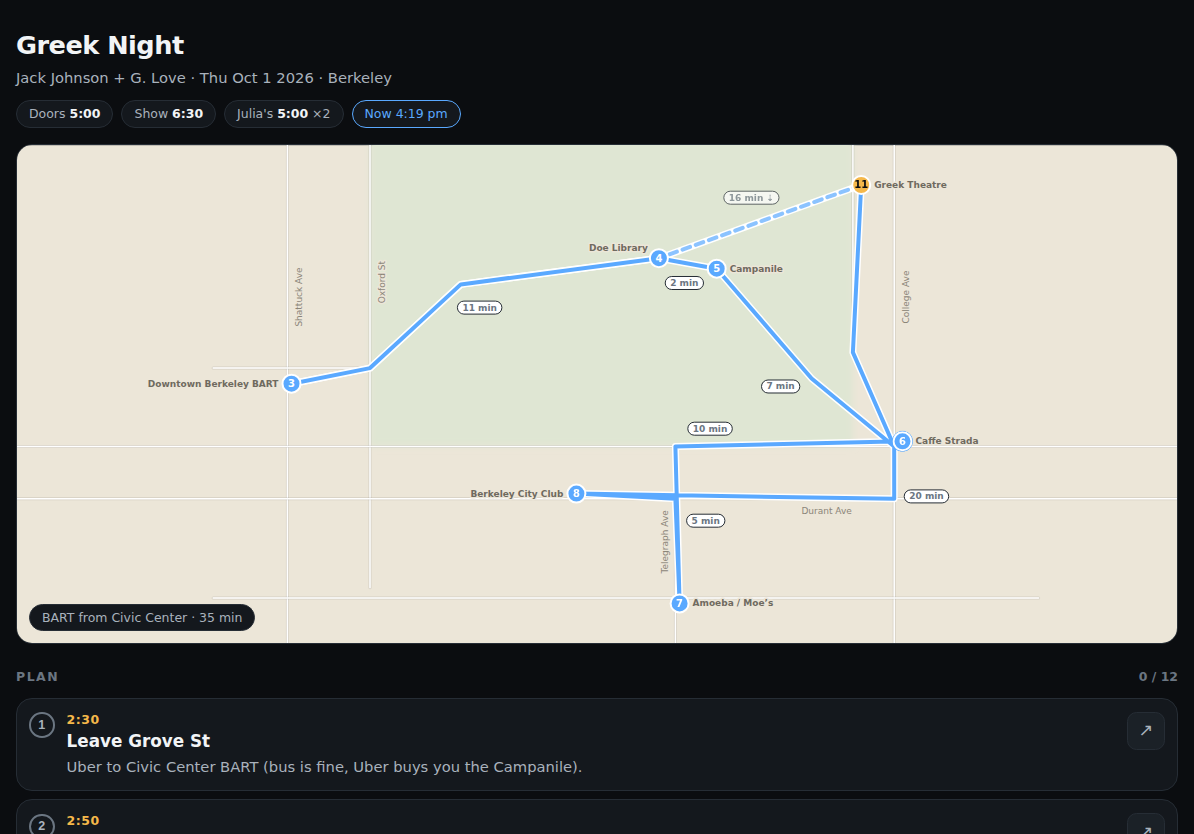
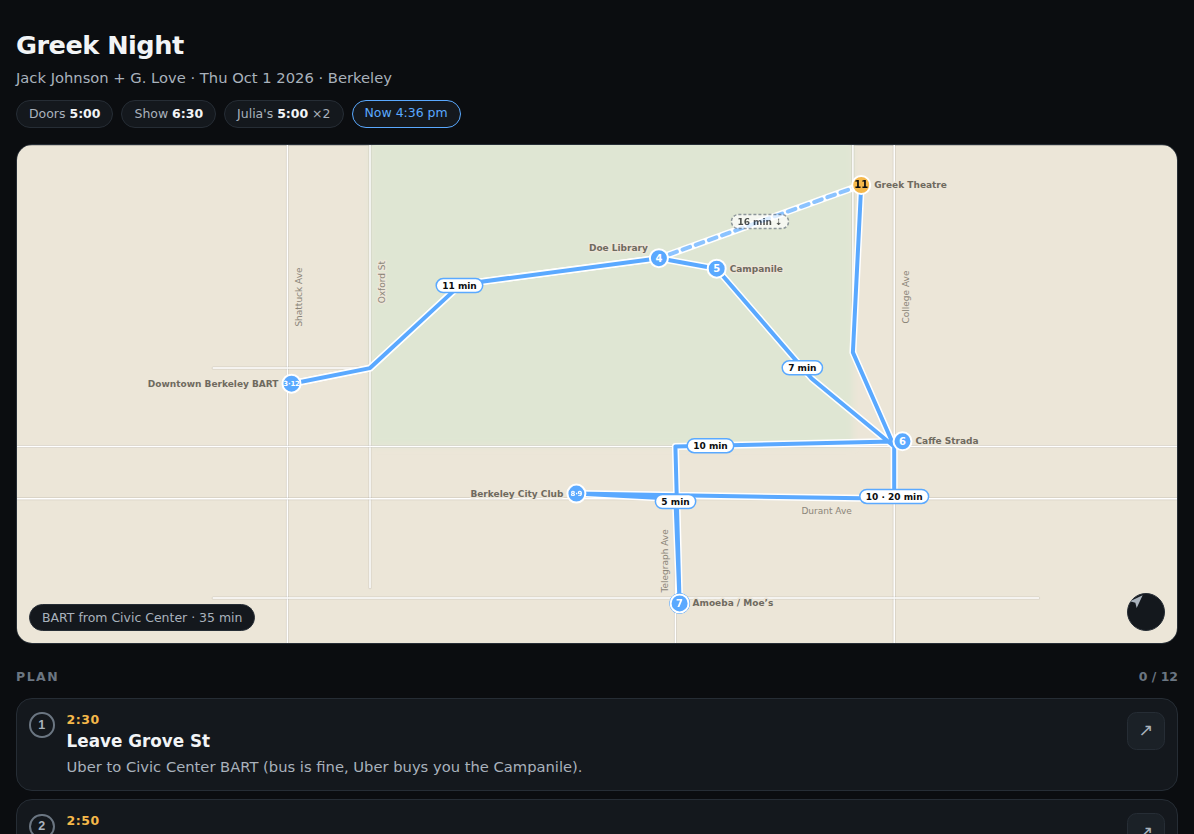
greek-night: pills on the line, shared pins
Walk-time pills sit centred on their leg at its midpoint by path length,
like route bubbles, drawn above both routes; one that lands near a pin
slides along the leg away from it, and legs under 3 min get none. The
City Club → Greek pill carries its step (10 · 20 min). Pin names and
street names avoid the pills. BART and City Club host two steps each
(3·12, 8·9): the popup lists both, tapping outlines both rows, and a pin
stays while any of its steps is live, so skipping step 8 leaves City
Club reading 9.

Claude-Session: https://claude.ai/code/session_01SYEqCQ4izqiJdBAjLeUwFf

diff --git a/greek-night.html b/greek-night.html
@@ -69,15 +69,17 @@
   .gn-route{fill:none;stroke:var(--now);stroke-width:4;stroke-linejoin:round;stroke-linecap:round}
   .gn-route.ret{stroke-dasharray:8 6;opacity:.7}
   .pin-l{font-size:9px;fill:#6f6a5f;stroke:#ece6d8;stroke-width:3;paint-order:stroke;stroke-linejoin:round;font-weight:600}
-  .walk-b{fill:#fff;stroke:var(--line);stroke-width:1}
-  .walk-t{font-size:9px;font-weight:700;fill:var(--ink3)}
+  .walk-b{fill:#fff;stroke:var(--now);stroke-width:1.5}
+  .walk-t{font-size:9px;font-weight:700;fill:#0b0d10}
   .walk.ret{opacity:.7}
+  .walk.ret .walk-b{stroke:var(--ink3);stroke-dasharray:3 2}
   .pin{cursor:pointer;transition:opacity .2s}
   .pin.done{opacity:.45}
   .pin-c{fill:var(--now);stroke:#fff;stroke-width:2}
   .pin.greek .pin-c{fill:var(--accent)}
   .pin-n{fill:#fff;font-size:10px;font-weight:700;pointer-events:none}
   .pin.greek .pin-n{fill:#0b0d10}
+  .pin-n.two{font-size:7px;letter-spacing:-.03em}
   .pin-hit{fill:transparent}
   .pulse{display:none;fill:none;stroke:var(--now);stroke-width:2;transform-box:fill-box;transform-origin:center}
   .pin.now .pulse{display:block;animation:gnPulse 2s ease-out infinite}
@@ -256,13 +258,13 @@
 
   /* ---------- map hero: offline SVG, projected from the data ---------- */
   var PLACES = [
-    {n:'Downtown Berkeley BART', lat:37.8699, lng:-122.2681, step:3},
-    {n:'Doe Library', lat:37.8723, lng:-122.2592, step:4},
-    {n:'Campanile', lat:37.8721, lng:-122.2578, step:5},
-    {n:'Caffe Strada', lat:37.8688, lng:-122.2533, step:6},
-    {n:'Amoeba / Moe’s', lat:37.8657, lng:-122.2587, step:7},
-    {n:'Berkeley City Club', lat:37.8678, lng:-122.2612, step:8},
-    {n:'Greek Theatre', lat:37.8737, lng:-122.2543, step:11, greek:true}
+    {n:'Downtown Berkeley BART', lat:37.8699, lng:-122.2681, steps:[3, 12]},
+    {n:'Doe Library', lat:37.8723, lng:-122.2592, steps:[4]},
+    {n:'Campanile', lat:37.8721, lng:-122.2578, steps:[5]},
+    {n:'Caffe Strada', lat:37.8688, lng:-122.2533, steps:[6]},
+    {n:'Amoeba / Moe’s', lat:37.8657, lng:-122.2587, steps:[7]},
+    {n:'Berkeley City Club', lat:37.8678, lng:-122.2612, steps:[8, 9]},
+    {n:'Greek Theatre', lat:37.8737, lng:-122.2543, steps:[11], greek:true}
   ];
   /* walk out, as legs between pins: the waypoints between the two; the Bancroft & College retrace is the same sidewalk */
   var LEG_WP = {
@@ -281,7 +283,9 @@
     7: [[37.8687, -122.2588], [37.8687, -122.2612]],
     8: [[37.8677, -122.2588], [37.8677, -122.2535], [37.8687, -122.2535], [37.8705, -122.2545]]
   };
-  function livePlaces(){ return PLACES.filter(function(s){ return !isSkipped(s.step); }); }
+  /* a pin stays while any of its steps is live: skip 8 and City Club remains for dinner, reading 9 */
+  function liveSteps(s){ return s.steps.filter(function(k){ return !isSkipped(k); }); }
+  function livePlaces(){ return PLACES.filter(function(s){ return liveSteps(s).length > 0; }); }
   var BACK = [[37.8737, -122.2543], [37.8723, -122.2592], [37.8718, -122.2640], [37.8702, -122.2662], [37.8699, -122.2681]];
   /* [name, N–S?, fixed coord, from, to (null = full fitted width), labelled] */
   var STREETS = [
@@ -306,14 +310,14 @@
     var live = livePlaces(), legs = [];
     for (var i = 1; i < live.length; i++) {
       var a = live[i - 1], b = live[i], pts = [[a.lat, a.lng]];
-      var gap = PLACES.filter(function(s){ return s.step > a.step && s.step < b.step; });   /* the skipped pins between them, in order */
-      if (gap.length) gap.forEach(function(s){ pts = pts.concat(BYPASS[s.step]); });
-      else pts = pts.concat(LEG_WP[a.step + '-' + b.step] || []);
+      var gap = PLACES.filter(function(s){ return s.steps[0] > a.steps[0] && s.steps[0] < b.steps[0]; });   /* the skipped pins between them, in order */
+      if (gap.length) gap.forEach(function(s){ pts = pts.concat(BYPASS[s.steps[0]]); });
+      else pts = pts.concat(LEG_WP[a.steps[0] + '-' + b.steps[0]] || []);
       pts.push([b.lat, b.lng]);
-      legs.push({pts:pts, mph:b.greek ? 2.5 : 3});
+      legs.push({pts:pts, mph:b.greek ? 2.5 : 3, label:b.greek ? '10 · ' : ''});   /* the climb to the Greek is step 10 */
     }
-    /* the return's pill sits on its visible dashed stretch (Greek → Doe), on the side away from the Campanile (when it is live) */
-    legs.push({pts:BACK, mph:3, ret:true, place:BACK.slice(0, 2), away:live.filter(function(pl){ return pl.step === 5; })[0]});
+    /* the return's pill sits on its visible dashed stretch (Greek → Doe) */
+    legs.push({pts:BACK, mph:3, ret:true, place:BACK.slice(0, 2)});
     legs.forEach(function(l){
       var m = 0;
       for (var j = 1; j < l.pts.length; j++) m += metres(l.pts[j - 1], l.pts[j]);
@@ -333,9 +337,9 @@
   var svg = document.getElementById('gnmap');
   var popEl = document.getElementById('pinpop');
   var chipEl = cardEl.querySelector('.mapchip');
-  var pinEls = [], linkedRow = null;
+  var pinEls = [], linkedRows = [];
   /* plan rows with a pin take the pin's colour for their step number */
-  PLACES.forEach(function(s){ planEl.children[s.step - 1].querySelector('.check').classList.add(s.greek ? 'key-acc' : 'key-now'); });
+  PLACES.forEach(function(s){ s.steps.forEach(function(k){ planEl.children[k - 1].querySelector('.check').classList.add(s.greek ? 'key-acc' : 'key-now'); }); });
 
   function S(tag, attrs, parent){
     var e = document.createElementNS(NS, tag);
@@ -434,6 +438,7 @@
     ob.rects.push(chip);
     ob.rects.push({x:br.left - sr.left - 2, y:br.top - sr.top - 2, w:br.width + 4, h:br.height + 4});   /* the location button */
 
+    var gp = S('g', {}, svg);   /* pills: above both routes, under the names and pins */
     var gl = S('g', {}, svg);
     function measure(cls, txt){
       var t = S('text', {'class':cls, x:-999, y:-999}, gl); t.textContent = txt;
@@ -445,56 +450,42 @@
       return {c:pick, s:ps};
     }
 
-    /* walk-time pills: beside the leg at its midpoint along the line, either side, sliding along it if crowded */
-    function placePill(l){
-      var txt = l.min + ' min' + (l.ret ? ' ⇣' : ''), pw = measure('walk-t', txt) + 10, ph = 13;
+    /* walk-time pills: centred on the leg at its midpoint by path length, like a route bubble, so the line passes under them.
+       One that lands within 14 units of a pin slides along the leg away from it. A leg under 3 min gets none. */
+    var pinPts = livePlaces().map(function(s){ return P(s.lat, s.lng); });
+    LEGS.forEach(function(l){
+      if (l.min < 3) return;
+      var txt = (l.label || '') + l.min + ' min' + (l.ret ? ' ⇣' : ''), pw = measure('walk-t', txt) + 12, ph = 14;
       var pts = (l.place || l.pts).map(function(c){ return P(c[0], c[1]); }), cum = [0];
       for (var j = 1; j < pts.length; j++) cum.push(cum[j - 1] + Math.hypot(pts[j][0] - pts[j - 1][0], pts[j][1] - pts[j - 1][1]));
       function at(fr){
         var d = cum[cum.length - 1] * fr, j = 1;
         while (j < pts.length - 1 && cum[j] < d) j++;
-        var a = pts[j - 1], b = pts[j], sl = (cum[j] - cum[j - 1]) || 1, t = (d - cum[j - 1]) / sl;
-        return {x:a[0] + (b[0] - a[0]) * t, y:a[1] + (b[1] - a[1]) * t, nx:-(b[1] - a[1]) / sl, ny:(b[0] - a[0]) / sl};
+        var a = pts[j - 1], b = pts[j], t = (d - cum[j - 1]) / ((cum[j] - cum[j - 1]) || 1);
+        return [a[0] + (b[0] - a[0]) * t, a[1] + (b[1] - a[1]) * t];
       }
-      /* side +1 / -1 of the line; a leg with `away` prefers the side away from that pin */
-      var m = at(0.5), sides = [1, -1];
-      if (l.away) { var ap = P(l.away.lat, l.away.lng); var sa = (ap[0] - m.x) * m.nx + (ap[1] - m.y) * m.ny > 0 ? -1 : 1; sides = [sa, -sa]; }
-      function beside(sd){
-        var cands = [];
-        [0.5, 0.4, 0.6, 0.3, 0.7, 0.2, 0.8].forEach(function(fr){
-          var q = at(fr), ext = Math.abs(q.nx) * pw / 2 + Math.abs(q.ny) * ph / 2;
-          [10, 16].forEach(function(off){
-            var cx = q.x + sd * q.nx * (off + ext), cy = q.y + sd * q.ny * (off + ext);
-            cands.push({r:{x:cx - pw / 2, y:cy - ph / 2, w:pw, h:ph}});
-          });
-        });
-        return cands;
-      }
-      /* crowded: nearest clear spot to the leg's midpoint, on side sd (0 = either) */
-      function nearest(sd){
-        var near = null, nd = Infinity;
-        for (var dy = -40; dy <= 40; dy++) for (var dx = -40; dx <= 40; dx++) {
-          if (sd && (dx * m.nx + dy * m.ny) * sd <= 0) continue;
-          var r = {x:m.x + dx - pw / 2, y:m.y + dy - ph / 2, w:pw, h:ph}, d = Math.hypot(dx, dy);
-          if (d < nd && scoreBox(r, ob, w, h) === 0) { nd = d; near = r; }
+      function crowding(c){   /* the pin this spot is too close to, if any */
+        var r = {x:c[0] - pw / 2, y:c[1] - ph / 2, w:pw, h:ph};
+        for (var i = 0; i < pinPts.length; i++) {
+          var q = pinPts[i];
+          if (Math.hypot(q[0] - c[0], q[1] - c[1]) < 14) return q;
+          var nx = Math.max(r.x, Math.min(q[0], r.x + r.w)), ny = Math.max(r.y, Math.min(q[1], r.y + r.h));
+          if ((nx - q[0]) * (nx - q[0]) + (ny - q[1]) * (ny - q[1]) < 12 * 12) return q;
         }
-        return near && {r:near};
+        return null;
       }
-      var c = null, all = [];
-      if (l.away) {
-        var bw = best(beside(sides[0]));
-        c = bw.s === 0 ? bw.c : nearest(sides[0]);
+      var fr = 0.5, c = at(fr), q, n = 0;
+      while ((q = crowding(c)) && n++ < 40) {
+        var lo = Math.max(0.04, fr - 0.025), hi = Math.min(0.96, fr + 0.025), a = at(lo), b = at(hi);
+        fr = Math.hypot(b[0] - q[0], b[1] - q[1]) > Math.hypot(a[0] - q[0], a[1] - q[1]) ? hi : lo;
+        c = at(fr);
       }
-      if (!c) {
-        sides.forEach(function(sd){ all = all.concat(beside(sd)); });
-        var ba = best(all);
-        c = ba.s === 0 ? ba.c : (nearest(0) || ba.c);
-      }
-      var g = S('g', {'class':'walk' + (l.ret ? ' ret' : '')}, gl);
-      S('rect', {'class':'walk-b', x:f(c.r.x), y:f(c.r.y), width:f(pw), height:ph, rx:ph / 2}, g);
-      S('text', {'class':'walk-t', x:f(c.r.x + pw / 2), y:f(c.r.y + 9.5), 'text-anchor':'middle'}, g).textContent = txt;
-      ob.rects.push(c.r);
-    }
+      var g = S('g', {'class':'walk' + (l.ret ? ' ret' : '')}, gp);
+      S('rect', {'class':'walk-b', x:f(c[0] - pw / 2), y:f(c[1] - ph / 2), width:f(pw), height:ph, rx:ph / 2}, g);
+      S('text', {'class':'walk-t', x:f(c[0]), y:f(c[1] + 3.2), 'text-anchor':'middle'}, g).textContent = txt;
+      ob.rects.push({x:c[0] - pw / 2 - 2, y:c[1] - ph / 2 - 2, w:pw + 4, h:ph + 4});
+    });
+
     /* pin names: right of the pin (left in the right third), then the other side, then above / below */
     livePlaces().forEach(function(s){
       var p = P(s.lat, s.lng), len = measure('pin-l', s.n), H = 10;
@@ -514,7 +505,7 @@
       if (bb.s > 0) {
         /* crowded corner: take the nearest clear spot close to the pin instead */
         var near = null, nd = Infinity;
-        for (var dy = -36; dy <= 26; dy++) for (var dx = -len - 36; dx <= 36; dx++) {
+        for (var dy = -44; dy <= 44; dy++) for (var dx = -len - 44; dx <= 44; dx++) {
           var r = {x:p[0] + dx, y:p[1] + dy, w:len, h:H};
           var qx = Math.max(r.x, Math.min(p[0], r.x + r.w)) - p[0], qy = Math.max(r.y, Math.min(p[1], r.y + r.h)) - p[1];
           var d = Math.sqrt(qx * qx + qy * qy);
@@ -526,10 +517,6 @@
       t.textContent = s.n;
       ob.rects.push(b.r);
     });
-
-    /* the return pill before the other pills: its dashed stretch is short and needs first pick of what the pin names leave */
-    LEGS.forEach(function(l){ if (l.ret) placePill(l); });
-    LEGS.forEach(function(l){ if (!l.ret) placePill(l); });
 
     /* street names: beside the line on its visible part; a street with no clear spot goes unlabelled rather than under the route */
     STREETS.forEach(function(st, i){
@@ -557,14 +544,15 @@
     });
 
     pinEls = PLACES.map(function(s, i){
-      if (isSkipped(s.step)) return null;
+      var steps = liveSteps(s);
+      if (!steps.length) return null;
       var p = P(s.lat, s.lng);
       var g = S('g', {'class':'pin' + (s.greek ? ' greek' : ''), 'data-i':i, transform:'translate(' + f(p[0]) + ' ' + f(p[1]) + ')'}, svg);
       S('circle', {'class':'pin-hit', r:20}, g);
       S('circle', {'class':'pulse', r:9}, g);
       S('circle', {'class':'pin-c', r:9}, g);
-      var n = S('text', {'class':'pin-n', 'text-anchor':'middle', dy:'3.5'}, g);
-      n.textContent = s.step;
+      var n = S('text', {'class':'pin-n' + (steps.length > 1 ? ' two' : ''), 'text-anchor':'middle', dy:steps.length > 1 ? '2.5' : '3.5'}, g);
+      n.textContent = steps.join('·');
       return g;
     });
     drawMe();
@@ -573,23 +561,23 @@
   function paintMap(ni){
     pinEls.forEach(function(g, i){
       if (!g) return;
-      var k = PLACES[i].step - 1;
-      g.classList.toggle('done', !!state['p' + k]);
-      g.classList.toggle('now', k === ni && !state['p' + k]);
+      var steps = liveSteps(PLACES[i]);
+      g.classList.toggle('done', steps.every(function(k){ return !!state['p' + (k - 1)]; }));
+      g.classList.toggle('now', steps.some(function(k){ return k - 1 === ni && !state['p' + (k - 1)]; }));
     });
   }
 
   function popClose(){
     popEl.hidden = true; popEl.innerHTML = '';
-    if (linkedRow) { linkedRow.classList.remove('linked'); linkedRow = null; }
+    linkedRows.forEach(function(r){ r.classList.remove('linked'); }); linkedRows = [];
   }
   function popOpen(i){
-    var s = PLACES[i], p = PLAN[s.step - 1];
-    popEl.innerHTML = popPill(p.map, esc(s.n), 'step ' + s.step + ' · ' + esc(p.t));
+    var s = PLACES[i], steps = liveSteps(s);
+    popEl.innerHTML = popPill(PLAN[steps[0] - 1].map, esc(s.n), steps.map(function(k){ return 'step ' + k + ' · ' + esc(PLAN[k - 1].t); }).join(' / '));
     popEl.hidden = false;
-    if (linkedRow) linkedRow.classList.remove('linked');
-    linkedRow = planEl.children[s.step - 1];
-    linkedRow.classList.add('linked');
+    linkedRows.forEach(function(r){ r.classList.remove('linked'); });
+    linkedRows = steps.map(function(k){ return planEl.children[k - 1]; });
+    linkedRows.forEach(function(r){ r.classList.add('linked'); });
     var c = pinEls[i].querySelector('.pin-c').getBoundingClientRect(), r = cardEl.getBoundingClientRect();
     var cx = c.left + c.width / 2 - r.left, top = c.top - r.top, bot = c.bottom - r.top;
     var pw = popEl.offsetWidth, ph = popEl.offsetHeight;
